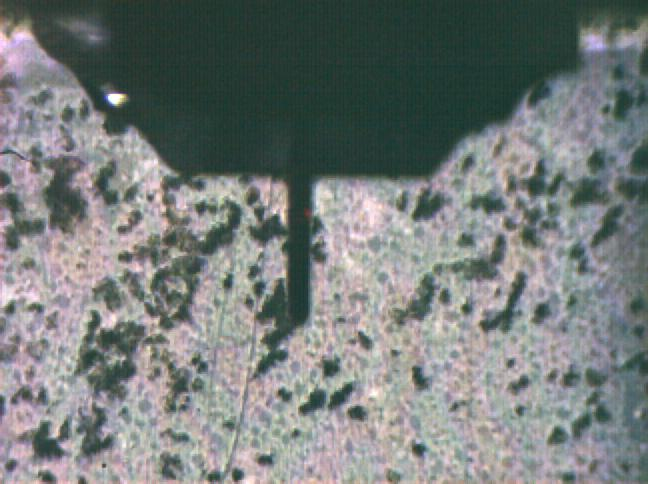
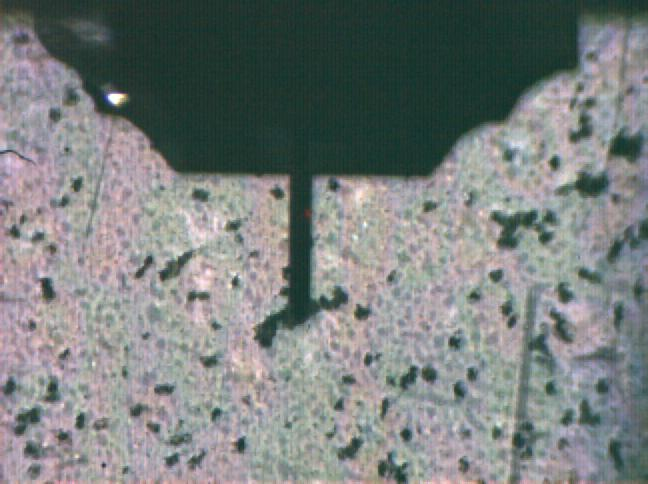
bugfix on backlash

diff --git a/auto-AFM.py b/auto-AFM.py
@@ -151,7 +151,6 @@ movesum_y = 0 #Custom starting positions are any position not in the center of t
 just_scanned = False
 calibration_factor = calibration_factor_x , calibration_factor_y #Tuple up for compact code
 
-""" 
 print("Doing backlash calibration")
 move_distance = (1,1) #Custom for first calibration round
 last_move_distance = move_distance
@@ -160,7 +159,6 @@ backlash_constant = (backlash_x_constant, backlash_y_constant)
 servomove(move_distance, calibration_factor, backlash_constant)
 time.sleep(1)
 print("Backlash calibration done")
-"""
 
 ### Loop ###
 while True: 
@@ -181,14 +179,16 @@ while True:
         current_cantelever_position = (305,310) #This should be automated //TODO
         move_distance = tupleSubtract(coordinates,current_cantelever_position)
         print("Distance to move for centering", move_distance) ## //TODO Maybe its clever to only move half the distance? This way we can keep some bias to the initial endpoint
-        backlash_x = backlash_x_constant if sign(move_distance[0]) != sign(last_move_distance[0]) else 0
-        backlash_y = backlash_y_constant if sign(move_distance[1]) != sign(last_move_distance[1]) else 0
-        backlash_constant = (backlash_x, backlash_y)
-    
-        print("Current applied backlash: ", backlash_constant)
-        print("Centering!")
-        servomove(move_distance, calibration_factor, backlash_constant)
-        last_move_distance = move_distance
+        if coordinates != None: 
+            backlash_x = backlash_x_constant if sign(move_distance[0]) != sign(last_move_distance[0]) else 0
+            backlash_y = backlash_y_constant if sign(move_distance[1]) != sign(last_move_distance[1]) else 0
+            backlash_constant = (backlash_x, backlash_y)
+        
+            print("Current applied backlash: ", backlash_constant)
+            print("Centering!")
+            servomove(move_distance, calibration_factor, backlash_constant)
+            last_move_distance = move_distance
+            
         print("Checking we still on skin")
         saveImage()
         #Need time for new file to appear in windows
@@ -210,7 +210,6 @@ while True:
             current_cantelever_position = (305,310) #This should be automated //TODO
             
             move_distance = tupleSubtract(next_point,current_cantelever_position)
-            last_move_distance = move_distance
 
             print("Distance to move ", move_distance)
 
@@ -229,16 +228,16 @@ while True:
         backlash_y = backlash_y_constant if sign(move_distance[1]) != sign(last_move_distance[1]) else 0
         last_move_distance = move_distance
         backlash_constant = (backlash_x, backlash_y)
-        if (abs(movesum_x+move_distance[0]) > movement_pixel_budget) | (abs(movesum_y+move_distance[1]) > movement_pixel_budget):
+        if (abs(movesum_x+move_distance[0]) > movement_pixel_budget) or (abs(movesum_y+move_distance[1]) > movement_pixel_budget):
             print("We cannot move this distance, too close to edge!")
             if movesum_x>(movement_pixel_budget-500): #Too far east
-                move_distance[0] = -500
+                move_distance = (-500, move_distance[1])
             if -1*movesum_x>(movement_pixel_budget-500): #Too far west
-                move_distance[0] = 500
+                move_distance = (500, move_distance[1])
             if movesum_y>(movement_pixel_budget-500): #Too far south
-                move_distance[1] = -500
+                move_distance = (move_distance[0],-500)
             if -1*movesum_y>(movement_pixel_budget-500): #Too far north
-                move_distance[1] = 500
+                move_distance = (move_distance[0],500)
 
         
         movesum_x+=move_distance[0]

diff --git a/computervision_new.py b/computervision_new.py
@@ -251,7 +251,7 @@ def centering():
     else:
         return None, image  # no valid contour found, just return original
 
-fullDebug()
+#fullDebug()
 
 """
 coordinates , image = centering()
